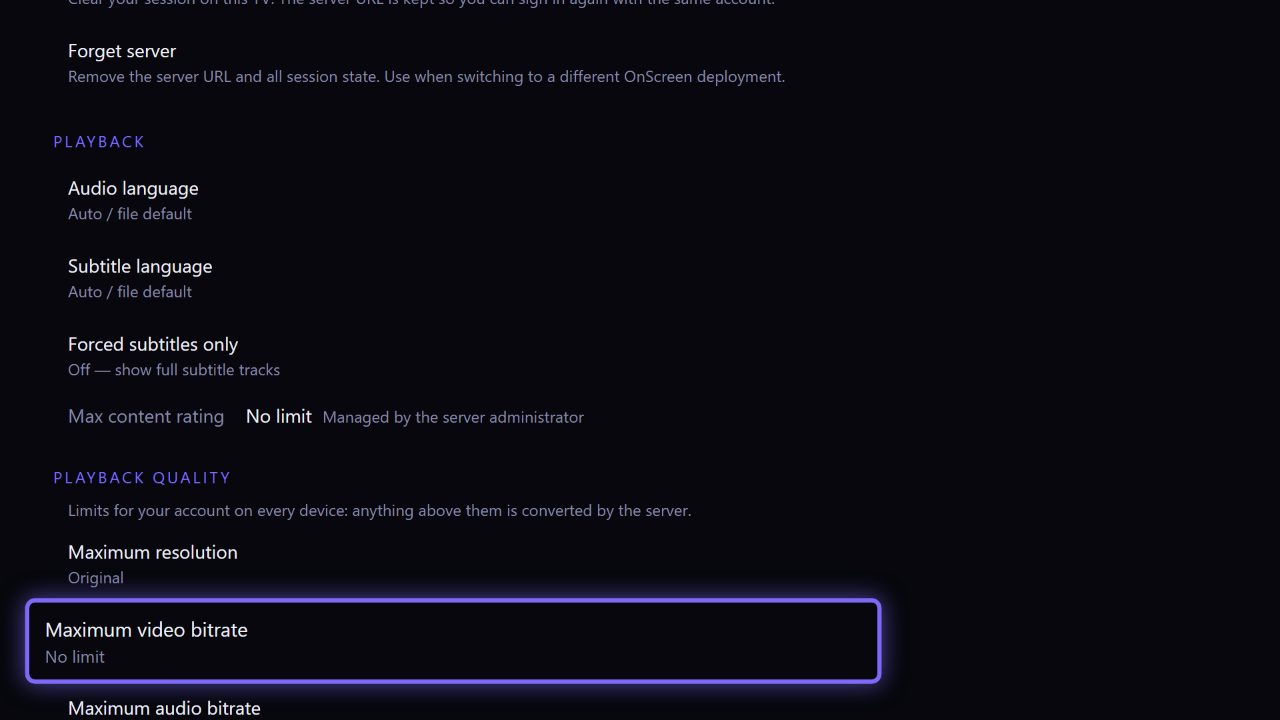
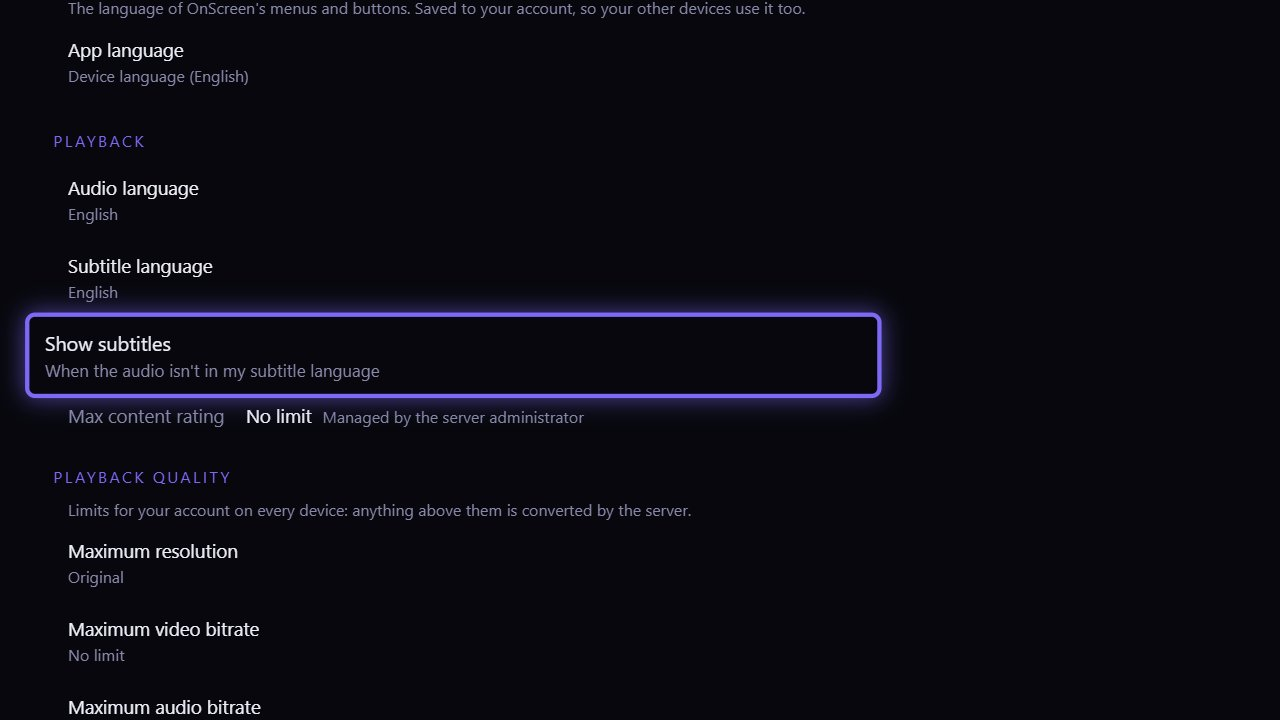
docs: guides cover the Show subtitles setting in every app
User guide: subtitles pick by the Show subtitles rule and re-pick on an
audio switch (3.5); which apps have the setting, and that Roku, Kodi and
older app versions treat the default as forced-only (9.6); Android TV
Settings, the phone using the account's languages, the Roku limit, a
row in "Which app does what", and a FAQ for subtitles that come on for
some films only. New TV Settings screenshot with the Show subtitles row
(the old one still showed "Forced subtitles only").

Admin guide 6.8: the default languages and what migration 00066 did to
existing accounts. Design doc status: #315, and the QA check.

diff --git a/docs/guides/src/user/guide.html b/docs/guides/src/user/guide.html
@@ -767,7 +767,10 @@ On the TV apps open <span class="ui">Audio</span> from the player's button row (
 <h3>Choosing subtitles</h3>
 <p>Click the <span class="ui">Subtitles</span> button. The list starts with <span class="ui">Off</span>, then the file's
 tracks (marked <em>forced</em> or <em>SDH</em> where that applies), then subtitles downloaded for the title
-(marked <em>· online</em>). If you've set a preferred subtitle language, OnScreen picks it for you.</p>
+(marked <em>· online</em>). OnScreen picks a track in your preferred subtitle language when your
+<span class="ui">Show subtitles</span> setting says to (<a href="#s9-6">9.6</a>). With the default, that's the full track
+when the audio isn't in your language, and only a forced track when it is. Switching the audio track picks again, unless
+you chose a subtitle yourself.</p>
 <figure class="w60"><img src="img/web-subtitles-menu.jpg" alt="Subtitles menu with style and sync rows"><figcaption><b>The
 Subtitles menu</b> with a track chosen: size, color, background, outline and sync. (Admins also see a
 <span class="ui">Server</span> row for saving timing for everyone.)</figcaption></figure>
@@ -1374,13 +1377,16 @@ has the same setting (<span class="ui">Settings</span> ▸ <span class="ui">Secu
 password sign-in, so it isn't offered to accounts that use single sign-on or LDAP.</p>
 <h3>Languages</h3>
 <p>Choose a <span class="ui">Preferred Audio Language</span> and a <span class="ui">Preferred Subtitle Language</span>, then
-click <span class="ui">Save Preferences</span>. They're saved to your account, so every app uses them; the TV apps also
-have them in their own Settings. Both start as English. <span class="ui">Show subtitles</span> says when your subtitle
+click <span class="ui">Save Preferences</span>. They're saved to your account, so every app uses them. The Android TV,
+Fire TV, Samsung, LG and Xbox apps also have them in their own Settings; the phone app uses what you choose here. Both
+start as English. <span class="ui">Show subtitles</span> says when your subtitle
 language comes on by itself: <span class="ui">When the audio isn't in my subtitle language</span> (the default: an English
 film plays without subtitles, a Japanese one with English subtitles, and forced tracks for foreign-language dialogue
 always come on), <span class="ui">Only forced subtitles</span>, or <span class="ui">Always</span>. Pick a track in the player
-whenever you want another, or choose <span class="ui">None</span> to use the tracks the file marks as its default. Apps
-that haven't been updated yet treat the default like <span class="ui">Only forced subtitles</span>. <span class="ui">Use the series poster for episodes</span> shows a show's poster instead
+whenever you want another, or choose <span class="ui">None</span> to use the tracks the file marks as its default. The
+Roku and Kodi apps, and app versions from before this setting, treat the default like
+<span class="ui">Only forced subtitles</span>: there, pick the subtitles in the player for a film that isn't in your
+language. <span class="ui">Use the series poster for episodes</span> shows a show's poster instead
 of an episode still on Continue Watching, History and Search.</p>
 <h3>Scrobbling</h3>
 <p>Click <span class="ui">Link your accounts →</span> under <span class="ui">Scrobbling</span> to send what you play to
@@ -1439,7 +1445,8 @@ edition leaves those out.</p>
 page, and set quality in <span class="ui">Settings</span> ▸ <span class="ui">Playback quality</span>.</p>
 <h3>Settings</h3>
 <ul>
-  <li><span class="ui">Language Preferences</span>: preferred audio and subtitle language (saved to your account).</li>
+  <li><span class="ui">Language Preferences</span>: preferred audio and subtitle language, and
+  <span class="ui">Show subtitles</span> (<a href="#s9-6">9.6</a>; saved to your account).</li>
   <li><span class="ui">Match frame rate</span> (on by default) switches the TV to the film's frame rate so motion is smooth;
   the screen goes dark for a moment. On Fire TV, also turn on the Fire TV's own Match Original Frame Rate setting. On
   Android 12 and later, the TV's Match content frame rate setting decides.</li>
@@ -1467,7 +1474,8 @@ supports them. Music and audiobooks keep playing after you press Home. This app 
   Comic pages sync with your other devices.</li>
   <li><strong>Photos:</strong> a swipe viewer with <span class="ui">Photo info</span>, and a map.</li>
   <li><strong>Settings:</strong> <span class="ui">Playback quality</span>, <span class="ui">ReplayGain</span>,
-  <span class="ui">Two-factor authentication</span>, ListenBrainz scrobbling and Wi-Fi-only downloads.</li>
+  <span class="ui">Two-factor authentication</span>, ListenBrainz scrobbling and Wi-Fi-only downloads. Audio and
+  subtitle languages come from your account: set them on the web (<a href="#s9-6">9.6</a>) or in a TV app.</li>
 </ul>
 
 <h2 id="s10-3"><span class="num">10.3</span>Samsung, LG and Xbox</h2>
@@ -1480,8 +1488,8 @@ them <span class="ui">Discover</span> (requests), <span class="ui">Live TV</span
 <div class="pair">
   <figure><img src="img/tv-item.jpg" alt="TV title page"><figcaption><b>A title page</b>: Resume, Play from Beginning, Mark
   watched, Favorite and Report a problem.</figcaption></figure>
-  <figure><img src="img/tv-settings.jpg" alt="TV settings"><figcaption><b>Settings</b>: Playback (languages) and Playback
-  quality.</figcaption></figure>
+  <figure><img src="img/tv-settings.jpg" alt="TV settings"><figcaption><b>Settings</b>: Playback (languages and
+  Show subtitles) and Playback quality.</figcaption></figure>
 </div>
 <h3>Remote in the player</h3>
 <table class="keys">
@@ -1526,6 +1534,8 @@ them <span class="ui">Discover</span> (requests), <span class="ui">Live TV</span
 <ul>
   <li>Only subtitles inside the video file are offered; downloaded or online subtitles and subtitle styling aren't.
   Picture-based subtitles are burned in (<a href="#s3-5">3.5</a>).</li>
+  <li>Your preferred languages apply, but <span class="ui">Show subtitles</span> works like
+  <span class="ui">Only forced subtitles</span> for now (<a href="#s9-6">9.6</a>).</li>
   <li>No Settings screen: no Playback quality, no sign-out, no Favorite button (add favorites from another app).</li>
   <li>No live TV, recordings, requests, book reader or audiobook speed.</li>
   <li>The Roku app hasn't yet been tested on a Roku device for this release.</li>
@@ -1538,6 +1548,7 @@ them <span class="ui">Discover</span> (requests), <span class="ui">Live TV</span
   <tr><td>Profile switching</td><td>Yes</td><td>No</td><td>No</td><td>No</td><td>No</td></tr>
   <tr><td>Playback quality setting</td><td>Account</td><td>Settings</td><td>Settings</td><td>Settings</td><td>No</td></tr>
   <tr><td>Quality menu in player</td><td>Yes</td><td>No</td><td>No</td><td>No</td><td>No</td></tr>
+  <tr><td>Language and Show subtitles settings</td><td>Account</td><td>Settings</td><td>From your account</td><td>Settings</td><td>From your account</td></tr>
   <tr><td>Version picker</td><td>Player</td><td>Title page</td><td>Title page</td><td>Title page</td><td>Title page</td></tr>
   <tr><td>Online subtitle search</td><td>Yes</td><td>Google TV only</td><td>Yes</td><td>Yes</td><td>No</td></tr>
   <tr><td>Subtitle sync</td><td>Yes</td><td>No</td><td>No</td><td>No</td><td>No</td></tr>
@@ -1574,6 +1585,12 @@ them <span class="ui">Discover</span> (requests), <span class="ui">Live TV</span
 for that viewing, so also send <span class="ui">Report a problem</span> ▸ <span class="ui">Subtitles problem</span>: an admin
 can save the right timing on the server for every app. Or try a different track, or <span class="ui">Search online…</span>
 for another one.</p>
+
+<h3>Subtitles come on for some films and not others.</h3>
+<p>That's <span class="ui">Show subtitles</span> doing its job (<a href="#s9-6">9.6</a>). With the default, a film in
+your subtitle language plays without subtitles (except forced ones for foreign-language lines), and a film in another
+language plays with full subtitles. To always see them, choose <span class="ui">Always</span>. To hide them for one
+title, choose <span class="ui">Off</span> in the player.</p>
 
 <h3>I can't see the subtitles I chose.</h3>
 <ul>

diff --git a/docs/guides/src/install/guide.html b/docs/guides/src/install/guide.html
@@ -1068,6 +1068,7 @@ Audiobooks/Book.m4b                              a single-file book</code></pre>
 <h2 id="s6-8"><span class="num">6.8</span>Subtitles</h2>
 <ul>
   <li><strong>Text subtitles</strong> (embedded or next to the file) are rendered by the players.</li>
+  <li><strong>Default languages</strong>: every account starts with English audio, English subtitles and <em>Show subtitles: when the audio isn't in my subtitle language</em>. An English film then plays without subtitles (forced tracks still come on), and a film in another language plays with the full English track. Migration 00066 gave the same settings to every existing account that hadn't chosen a language; a language someone chose was kept. People change it under Account &#9656; Languages or in a TV app's Settings. Roku, Kodi and app versions from before this setting treat it as <em>only forced subtitles</em>.</li>
   <li><strong>OCR</strong>: picture subtitles (PGS, VobSub, DVB) can be converted to text with FFmpeg and Tesseract, per stream from the player or for a whole library with the <em>OCR image subtitles</em> task (off by default; weekly once enabled). The Docker image ships Tesseract with English, Spanish, French, German, Italian, Portuguese, Japanese, Chinese (simplified and traditional), Korean, Russian and Arabic data.</li>
   <li><strong>OpenSubtitles</strong> search in the player, and <strong>automatic download</strong> (v2.6, off by default): Settings &#9656; General &#9656; Automatic subtitle download, with languages (e.g. <code>en,es</code>) and a hearing-impaired preference; libraries can override it. The <em>Download missing subtitles</em> task runs every 6 hours and only fetches a language the file doesn't already have.</li>
   <li><strong>Timing for everyone</strong> (v2.6): an admin can correct a subtitle's sync in the web player and choose <em>Save for everyone</em>; the offset is applied on the server for every app.</li>

diff --git a/docs/foreign-audio-subtitles.md b/docs/foreign-audio-subtitles.md
@@ -3,10 +3,12 @@
 > **Status: decided 2026-11-24; server + web built in #312** (folded in
 > before it merged, so migration 00066 writes `foreign` once), **the TV web
 > apps (Tizen, webOS, Xbox, so also Steam Deck TV mode) in #314, Android TV
-> and the phone in a follow-up PR** (with their remux / transcode now
-> starting on the preferred audio language, which §2 assumed). Every §6
-> recommendation was taken. Still to do: Roku and Kodi (§4); until then
-> they read `foreign` as forced-only.
+> and the phone in #315** (with their remux / transcode now starting on the
+> preferred audio language, which §2 assumed). Every §6 recommendation was
+> taken. QA and beta run #312 + #314 since 2026-11-25; on QA the web player
+> picked as §2 says for foreign-only audio, English audio with a forced
+> track, and two dual-audio films switched both ways. Still to do: Roku and
+> Kodi (§4); until then they read `foreign` as forced-only.
 
 ## 1. Why
 
